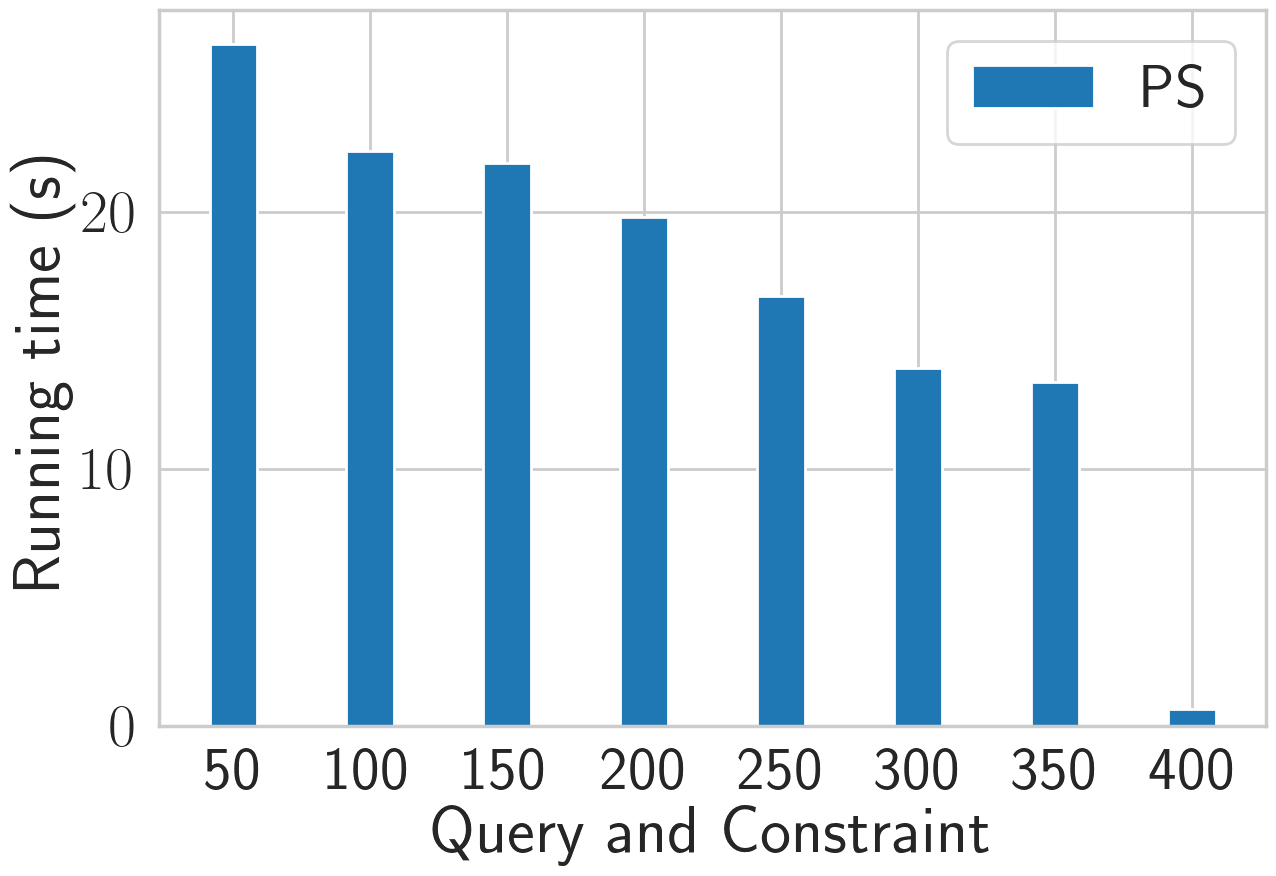
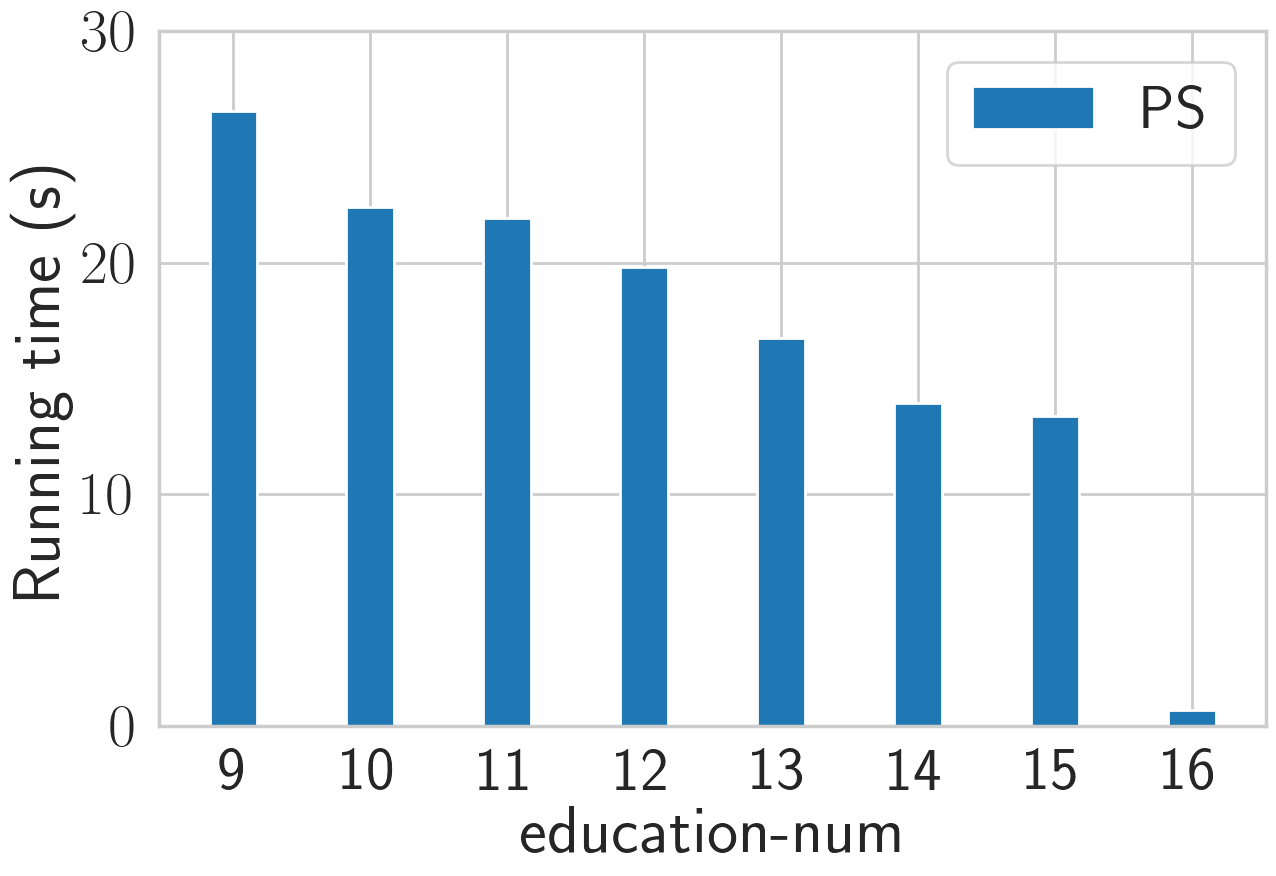
adult query change q1c2_2

diff --git a/Experiment/adult/query_change/Q1C1_2/query_change_q1c1.py b/Experiment/adult/query_change/Q1C1_2/query_change_q1c1.py
@@ -50,14 +50,14 @@ def run_constraint(c):
         print("running time = {}".format(running_time1))
 
         running_time2 = 0
-        print("========================== lattice traversal ===================================")
-        minimal_refinements2, minimal_added_refinements2, running_time2 = \
-            lt.FindMinimalRefinement(data_file, query_file, constraint_file, time_limit)
-        if running_time2 > time_limit:
-            print("naive alg out of time with {} time limit".format(time_limit))
-        else:
-            print("running time = {}".format(running_time2))
-        print(*minimal_refinements1, sep="\n")
+        # print("========================== lattice traversal ===================================")
+        # minimal_refinements2, minimal_added_refinements2, running_time2 = \
+        #     lt.FindMinimalRefinement(data_file, query_file, constraint_file, time_limit)
+        # if running_time2 > time_limit:
+        #     print("naive alg out of time with {} time limit".format(time_limit))
+        # else:
+        #     print("running time = {}".format(running_time2))
+        # print(*minimal_refinements1, sep="\n")
         result_output.write("\n")
         idx = i * 10
         time_output.write("{},{:0.2f},{:0.2f},{}\n".format(idx, running_time1, running_time2, assign_to_provenance_num))

diff --git a/Experiment/adult/query_change/Q1C2_2/fig.py b/Experiment/adult/query_change/Q1C2_2/fig.py
@@ -57,11 +57,11 @@ plt.bar(index, execution_timeps, bar_width, color=color[0], label=label[0])
 # plt.bar(index + bar_width, execution_timelt, bar_width,  color=color[1], label=label[1])
 plt.xticks(index, x_list)
 
-plt.xlabel('Query and Constraint')
+plt.xlabel('education-num')
 plt.ylabel('Running time (s)')
 # plt.yscale('log')
 plt.legend(loc='best')
-# plt.yticks([0, 10, 20, 30, 40])
+plt.yticks([0, 10, 20, 30])
 plt.tight_layout()
 plt.savefig("adult_query_change_q1c2.png", bbox_inches='tight')
 plt.show()
